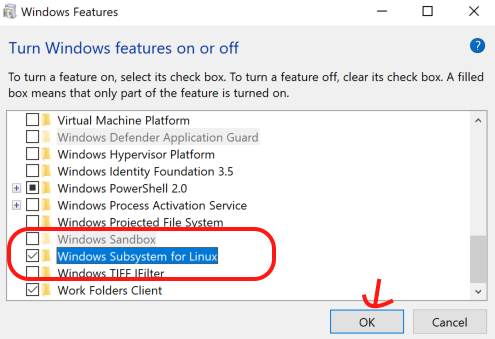
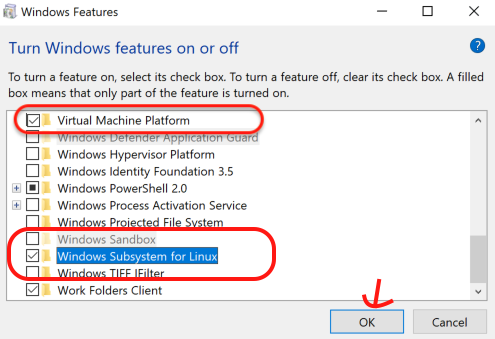
update Windows instructions

Changed region(s): [[0.0303, 0.295, 0.5455, 0.413]]

diff --git a/Windows/WSL/README.md b/Windows/WSL/README.md
@@ -1,12 +1,12 @@
 
-# Enable WSL and Install Ubuntu App on Windows 10
+# Enable WSL and Install Ubuntu App on Windows 10 and 11
 
-- Official Instruction: [https://docs.microsoft.com/en-us/windows/wsl/install-win10](https://docs.microsoft.com/en-us/windows/wsl/install-win10
+- Official Instruction for Windows 10: [https://docs.microsoft.com/en-us/windows/wsl/install-win10](https://docs.microsoft.com/en-us/windows/wsl/install-win10
 )
-- Windows 10 allows Ubuntu installation as an app
+- Windows 10 and 11 allows Ubuntu installation as an app
 - follow this instruction to install WSL Ubuntu
 
-1. turn Windows Subsystem for Linux feature on following these steps
+1. turn Windows Subsystem for Linux features on following these steps:
     1. search for "Turn Windows features on or off" App without quotes
 
     ![Search Feature](WSL-Search-Feature.png)
@@ -16,11 +16,16 @@
 
     ![Windows Features](WSL-Check-Feature.png)
 
-    4. click ok button
+    4. on Windows 11, Check the "Virtual Machine Platform" as well 
+    5. click ok button
         - Note, it may take a while to apply the setting
-    5. restart your computer
+    6. restart your computer
 
     ![Restart](WSL-Restart.png)
+
+    Note: If the above step don't work:
+    1. ensure virtualization is enabled in bios: 
+    2. If errors are persisting, install the wsl2 kernel update here [https://docs.microsoft.com/en-us/windows/wsl/install-manual#step-4---download-the-linux-kernel-update-package](https://docs.microsoft.com/en-us/windows/wsl/install-manual#step-4---download-the-linux-kernel-update-package) (Under step 4)
 
 2. install Ubuntu App following these steps
     1. search for Microsoft Store and run it
@@ -31,11 +36,11 @@
 
     ![MS Store Ubuntu](WSL-Store-Ubuntu.png)
 
-    3. Install the Ubuntu App
+    3. install the Ubuntu App
 
     ![Ubuntu Install](WSL-Ubuntu-Install.png)
 
-        - Note, it may take a while depending on Internet speed (>4GB download)
+        - Note, dowload may take some time depending on Internet speed (>4GB download)
 
     4. once installed, Launch the app
 
@@ -49,7 +54,7 @@
 
     ![Ubuntu Account](WSL-Ubuntu-Account.png)
 
-3. Update Ubuntu
+3. update Ubuntu
     - type the following command on Bash Terminal
 
     ```bash
@@ -58,7 +63,7 @@
 
     ![Update Ubuntu](WSL-Update.png)
 
-4. Run Ubuntu Bash Terminal
+4. run Ubuntu Bash Terminal
     - search and open Ubuntu
 
     ![Run Ubuntu](WSL-Run-Ubuntu.png)

diff --git a/Windows/README.md b/Windows/README.md
@@ -1,6 +1,6 @@
-# Development Evnvironment Setup Instructions on Windows 10
+# Development Evnvironment Setup Instructions on Windows 10/11
 
-If you're running Windows 10, follow the instructions in this section. Windows instructions use WSL Ubuntu Bash Terminal to install Linux-based tool chains.
+If you're running Windows 10/11, follow the instructions in this section. Windows instructions use WSL Ubuntu Bash Terminal to install Linux-based tool chains.
 
 NOTE: Certain tool chains may not work with WSL. So, it's highly recommended that you first install Ubuntu Linux Virtual Machine (VM) and follow the instruction for Linux development environment setup. In order to run VM smoothly, your system must have atleast 8 GB RAM and 4 cores so you can allocate half of the resources (4GB RAM and 2 cores -- ideal amount) to your VM. Alternativley, you can format and install Ubuntu Linux as the host Operating System especially if your system doesn't have adequate resources.
 
@@ -12,9 +12,9 @@ NOTE: Certain tool chains may not work with WSL. So, it's highly recommended tha
 
 - follow the instructions on [Windows-Python3-README.md](Windows-Python3-README.md) to setup Python Dev Environment on Windows
 
-## Install WSL on CMU Labs Windows 10 System
+## Install WSL on CMU Labs Windows System
 
-- On CS Labs Windows 10 System, follow these instructions:
+- On CS Labs Windows System, follow these instructions:
 
 - NOTE: Pick a system and stick to it for the rest of the semester! Otherwise, you may have to install WSL and all the tools on every system you use.
 

diff --git a/README.md b/README.md
@@ -11,7 +11,7 @@ Instructions to Setup Development Environments for various Programming Languages
 - any command that starts with **sudo** keyword requires superuser/admin priviledge and prompts for your password
 - **\< ... \>** - is a place holder that must be replaced (including the angular brackets) with the actual content in place
 
-## Windows 10
+## Windows 10/11
 
 If you're running Windows, follow the instructions in [this README](Windows/README.md) in Windows folder.
 
